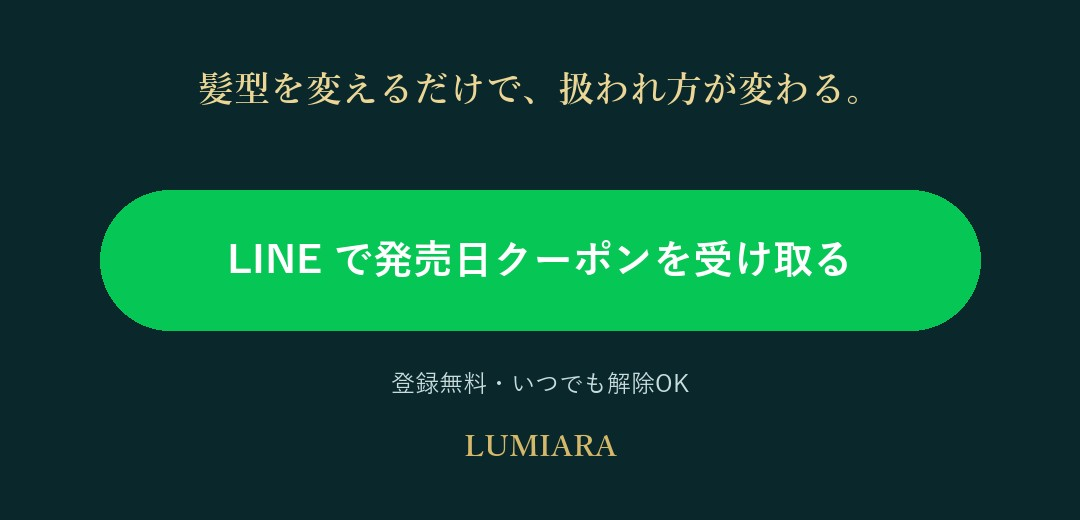
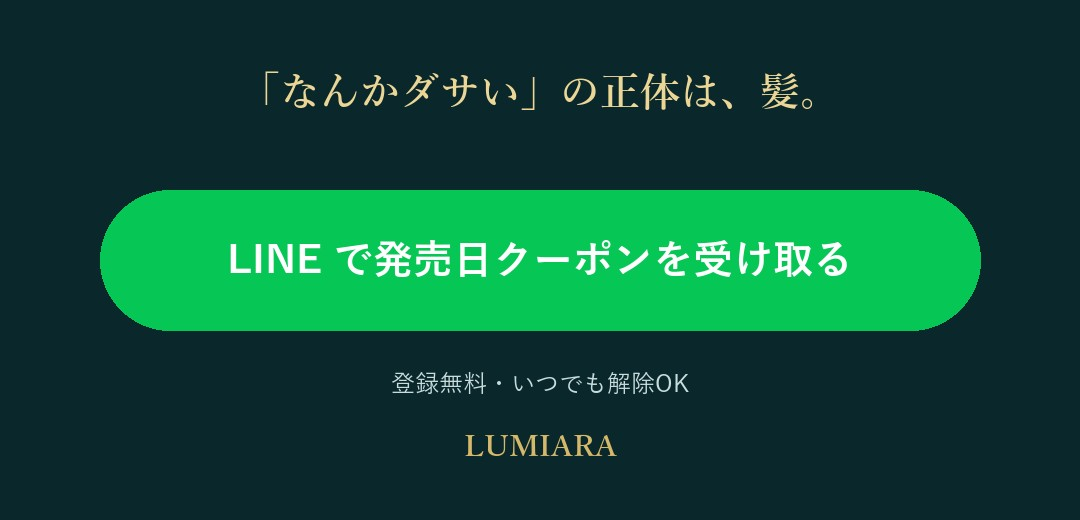
訴求2の1枚目を「なんかダサいと思われてる気がする。それ、たぶん髪です。」に

Changed region(s): [[0.1833, 0.1231, 0.7944, 0.2154]]

diff --git a/b/index.html b/b/index.html
@@ -4,9 +4,9 @@
 <meta charset="utf-8">
 <meta name="viewport" content="width=device-width,initial-scale=1">
 <meta name="robots" content="noindex">
-<title>LUMIARA｜髪型を変えるだけで、扱われ方が変わる。 先行登録</title>
+<title>LUMIARA｜なんかダサいと思われてる気がする。それ、たぶん髪です。 先行登録</title>
 <meta name="description" content="メンズのための細身ストレートアイロン LUMIARA。発売前の先行登録（LINE）のご案内です。">
-<meta property="og:title" content="LUMIARA｜髪型を変えるだけで、扱われ方が変わる。">
+<meta property="og:title" content="LUMIARA｜なんかダサいと思われてる気がする。それ、たぶん髪です。">
 <meta property="og:image" content="lp01.jpg">
 <style>
 *{box-sizing:border-box;margin:0;padding:0}
@@ -33,24 +33,24 @@ details ul{padding-left:18px}
 </head>
 <body>
 <main>
-<img src="lp01.jpg?v=202609281040" alt="一番上">
-<img src="lp02.jpg?v=202609281040" alt="データ" loading="lazy">
-<img src="lp03.jpg?v=202609281040" alt="悩み" loading="lazy">
-<img src="lp04.jpg?v=202609281040" alt="データ アイロンを使う男は増えている" loading="lazy">
-<img src="lp05.jpg?v=202609281040" alt="ストーリー1" loading="lazy">
-<img src="lp06.jpg?v=202609281040" alt="ストーリー2" loading="lazy">
-<img src="lp07.jpg?v=202609281040" alt="だから作った ヘアアイロン社長のストーリー" loading="lazy">
-<img src="lp08.jpg?v=202609281040" alt="強み1 ひと流しで毛流れ" loading="lazy">
-<img src="lp09.jpg?v=202609281040" alt="強み2 3ステップ" loading="lazy">
-<img src="lp10.jpg?v=202609281040" alt="強み3 見せる道具" loading="lazy">
-<img src="lp11.jpg?v=202609281040" alt="強み4 箱" loading="lazy">
-<img src="lp12.jpg?v=202609281040" alt="細かい作り" loading="lazy">
-<img src="lp13.jpg?v=202609281040" alt="こんな人に" loading="lazy">
-<img src="lp14.jpg?v=202609281040" alt="発売と価格" loading="lazy">
-<img src="lp15.jpg?v=202609281040" alt="なぜ先行登録" loading="lazy">
-<img src="lp16.jpg?v=202609281040" alt="安心して登録するために" loading="lazy">
-<img src="lp17.jpg?v=202609281040" alt="作った人 ヘアアイロン社長" loading="lazy">
-<a href="https://lin.ee/XXXXXXX" class="line-link"><img src="lp18.jpg?v=202609281040" alt="LINE登録" loading="lazy"></a>
+<img src="lp01.jpg?v=202609281053" alt="一番上">
+<img src="lp02.jpg?v=202609281053" alt="データ" loading="lazy">
+<img src="lp03.jpg?v=202609281053" alt="悩み" loading="lazy">
+<img src="lp04.jpg?v=202609281053" alt="データ アイロンを使う男は増えている" loading="lazy">
+<img src="lp05.jpg?v=202609281053" alt="ストーリー1" loading="lazy">
+<img src="lp06.jpg?v=202609281053" alt="ストーリー2" loading="lazy">
+<img src="lp07.jpg?v=202609281053" alt="だから作った ヘアアイロン社長のストーリー" loading="lazy">
+<img src="lp08.jpg?v=202609281053" alt="強み1 ひと流しで毛流れ" loading="lazy">
+<img src="lp09.jpg?v=202609281053" alt="強み2 3ステップ" loading="lazy">
+<img src="lp10.jpg?v=202609281053" alt="強み3 見せる道具" loading="lazy">
+<img src="lp11.jpg?v=202609281053" alt="強み4 箱" loading="lazy">
+<img src="lp12.jpg?v=202609281053" alt="細かい作り" loading="lazy">
+<img src="lp13.jpg?v=202609281053" alt="こんな人に" loading="lazy">
+<img src="lp14.jpg?v=202609281053" alt="発売と価格" loading="lazy">
+<img src="lp15.jpg?v=202609281053" alt="なぜ先行登録" loading="lazy">
+<img src="lp16.jpg?v=202609281053" alt="安心して登録するために" loading="lazy">
+<img src="lp17.jpg?v=202609281053" alt="作った人 ヘアアイロン社長" loading="lazy">
+<a href="https://lin.ee/XXXXXXX" class="line-link"><img src="lp18.jpg?v=202609281053" alt="LINE登録" loading="lazy"></a>
 
 <section class="info">
   <h2>運営者情報</h2>
